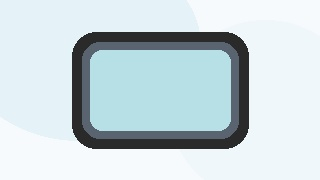
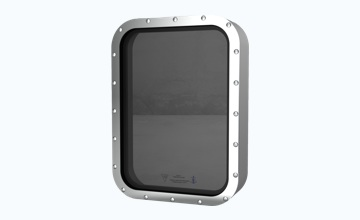
hh

diff --git a/assets/style.css b/assets/style.css
@@ -694,3 +694,58 @@ model-viewer{
 .gallery img,.gallery video{max-height:430px;border-radius:18px;padding:8px;background:#fff;}
 .gallery figcaption,.media-caption{display:none!important;}
 @media (max-width:900px){.product-thumb{width:84px;height:52px}.product-tile h3{margin-top:56px;max-width:68%;font-size:20px}}
+
+/* v20 final visual fixes */
+.viewer-note{
+  display:block !important;
+  margin:12px auto 0 !important;
+  color:#64788b !important;
+  font-size:14px !important;
+  line-height:1.5 !important;
+  text-align:center !important;
+  font-weight:600 !important;
+  max-width:560px !important;
+}
+.gallery figcaption,
+.media-caption{
+  display:none !important;
+}
+.product-thumb{
+  position:absolute !important;
+  top:16px !important;
+  right:16px !important;
+  width:104px !important;
+  height:66px !important;
+  border-radius:16px !important;
+  object-fit:cover !important;
+  background:#f7fbfd !important;
+  border:1px solid #dce8ef !important;
+  box-shadow:0 10px 22px rgba(7,17,29,.07) !important;
+}
+.product-tile{
+  min-height:238px !important;
+}
+.product-tile h3{
+  max-width:74% !important;
+  margin-top:66px !important;
+}
+.gallery figure{
+  padding:18px !important;
+  background:linear-gradient(180deg,#fff 0%,#f7fbfd 100%) !important;
+  box-shadow:0 14px 34px rgba(7,17,29,.06) !important;
+}
+.gallery img{
+  height:360px !important;
+  object-fit:contain !important;
+  background:#fff !important;
+  border-radius:18px !important;
+  padding:0 !important;
+}
+.hero-viewer img{
+  object-fit:contain;
+}
+@media(max-width:640px){
+  .product-thumb{width:92px !important;height:58px !important;}
+  .product-tile h3{max-width:72% !important;margin-top:58px !important;}
+  .gallery img{height:260px !important;}
+}

diff --git a/products/straight-line-marine-wiper-system.html b/products/straight-line-marine-wiper-system.html
@@ -18,7 +18,17 @@
 <section class="quick-specs"><div class="qspec"><span>Type</span><strong>Straight line wiper</strong></div><div class="qspec"><span>Power</span><strong>24V DC motor</strong></div><div class="qspec"><span>Motion</span><strong>Linear wiping</strong></div><div class="qspec"><span>Options</span><strong>Washer / heater</strong></div></section>
 <section class="section" id="sample-details"><div class="section-head"><h2>Overview</h2></div><div class="info-strip"><div><h3>Large controlled coverage</h3><p>Straight line wipers provide linear wiping motion for broad window areas and can be configured according to the required stroke length and field of vision.</p></div><div><h3>Flexible system configuration</h3><p>The system can be adapted with single, dual or three-arm arrangements depending on casing length, window size and project-specific requirements.</p></div></div></section>
 <section class="section"><div class="section-head"><h2>Technical highlights</h2></div><div class="options-grid"><div class="option-box"><h3>Mechanism</h3><ul><li>Linear wiping mechanism</li><li>Adjustable stroke length</li><li>Casing length based on stroke</li><li>Single / dual / three-arm layouts</li></ul></div><div class="option-box"><h3>Motor & control</h3><ul><li>Heavy-duty 24V DC motor</li><li>Self-parking function</li><li>Independent control panel</li></ul></div><div class="option-box"><h3>Auxiliary systems</h3><ul><li>Optional spray / washer integration</li><li>Optional de-icing heater</li><li>Water and heater cable routing</li><li>Wash / air / heater control</li></ul></div><div class="option-box"><h3>Application range</h3><ul><li>Wheelhouse windows</li><li>Large marine glazing</li><li>Flat or shaped glass surfaces</li><li>Project-specific installations</li></ul></div></div></section>
-<section class="section" id="datasheets"><div class="section-head"><h2>Datasheets</h2></div><div class="doc-list"><div class="doc-card"><h3>Karaca Catalog</h3><p>General product catalog covering ship windows, side scuttles, glazing options and wiper systems.</p><a class="btn primary" href="../assets/docs/karaca-ship-windows-wipers-catalog.pdf" download>Download catalog</a></div><div class="doc-card"><h3>Straight Line Wipers Product Guide</h3><p>Detailed guide for straight line wiper description, casing, motors, arms, heaters, installation and control unit information.</p><a class="btn primary" href="../assets/docs/product-guide-straight-line-wipers.pdf" download>Download product guide</a></div></div></section>
+
+      <section class="section">
+        <div class="section-head">
+          <h2>Product visuals</h2>
+        </div>
+        <div class="gallery">
+          <figure><img src="../assets/images/straight-line-wiper-real.png" alt=""></figure>
+        </div>
+      </section>
+
+      <section class="section" id="datasheets"><div class="section-head"><h2>Datasheets</h2></div><div class="doc-list"><div class="doc-card"><h3>Karaca Catalog</h3><p>General product catalog covering ship windows, side scuttles, glazing options and wiper systems.</p><a class="btn primary" href="../assets/docs/karaca-ship-windows-wipers-catalog.pdf" download>Download catalog</a></div><div class="doc-card"><h3>Straight Line Wipers Product Guide</h3><p>Detailed guide for straight line wiper description, casing, motors, arms, heaters, installation and control unit information.</p><a class="btn primary" href="../assets/docs/product-guide-straight-line-wipers.pdf" download>Download product guide</a></div></div></section>
 </article></main>
 <footer class="footer">Karaca Ship Windows & Wipers · Digital Sample Showcase</footer>
 </body></html>

diff --git a/products/fixed-side-scuttle-with-deadlight.html b/products/fixed-side-scuttle-with-deadlight.html
@@ -144,11 +144,11 @@
         <div class="gallery">
           <figure>
             <img src="../assets/images/fixed-side-scuttle-gallery-01.jpg" alt="Side scuttle models with deadlight and glazing variations" />
-            <figcaption>Representative side scuttle configurations with deadlight and glazing variations.</figcaption>
+            
           </figure>
           <figure>
             <img src="../assets/images/side-scuttle-exploded-view.jpg" alt="Exploded view of side scuttle structure" />
-            <figcaption>Exploded view showing the main frame, glazing build-up, gasket, retaining parts and deadlight arrangement.</figcaption>
+            
           </figure>
         </div>
       </section>
@@ -163,7 +163,7 @@
           <video controls muted playsinline preload="metadata">
             <source src="../assets/videos/fixed-side-scuttle-demo.mp4" type="video/mp4">
           </video>
-          <div class="media-caption">Fixed side scuttle sample animation.</div>
+          
         </div>
       </section>
 

diff --git a/products/clear-monolithic-marine-window.html b/products/clear-monolithic-marine-window.html
@@ -105,15 +105,17 @@
 
       
       
+      
       <section class="section">
         <div class="section-head">
           <h2>Product visuals</h2>
         </div>
         <div class="gallery">
-          <figure><img src="../assets/images/clear-monolithic-front.png" alt=""></figure>
+          <figure><img src="../assets/images/clear-monolithic-window-real.png" alt=""></figure>
           <figure><img src="../assets/images/clear-monolithic-exploded.jpg" alt=""></figure>
         </div>
       </section>
+
 
     
       <section class="section" id="datasheets">